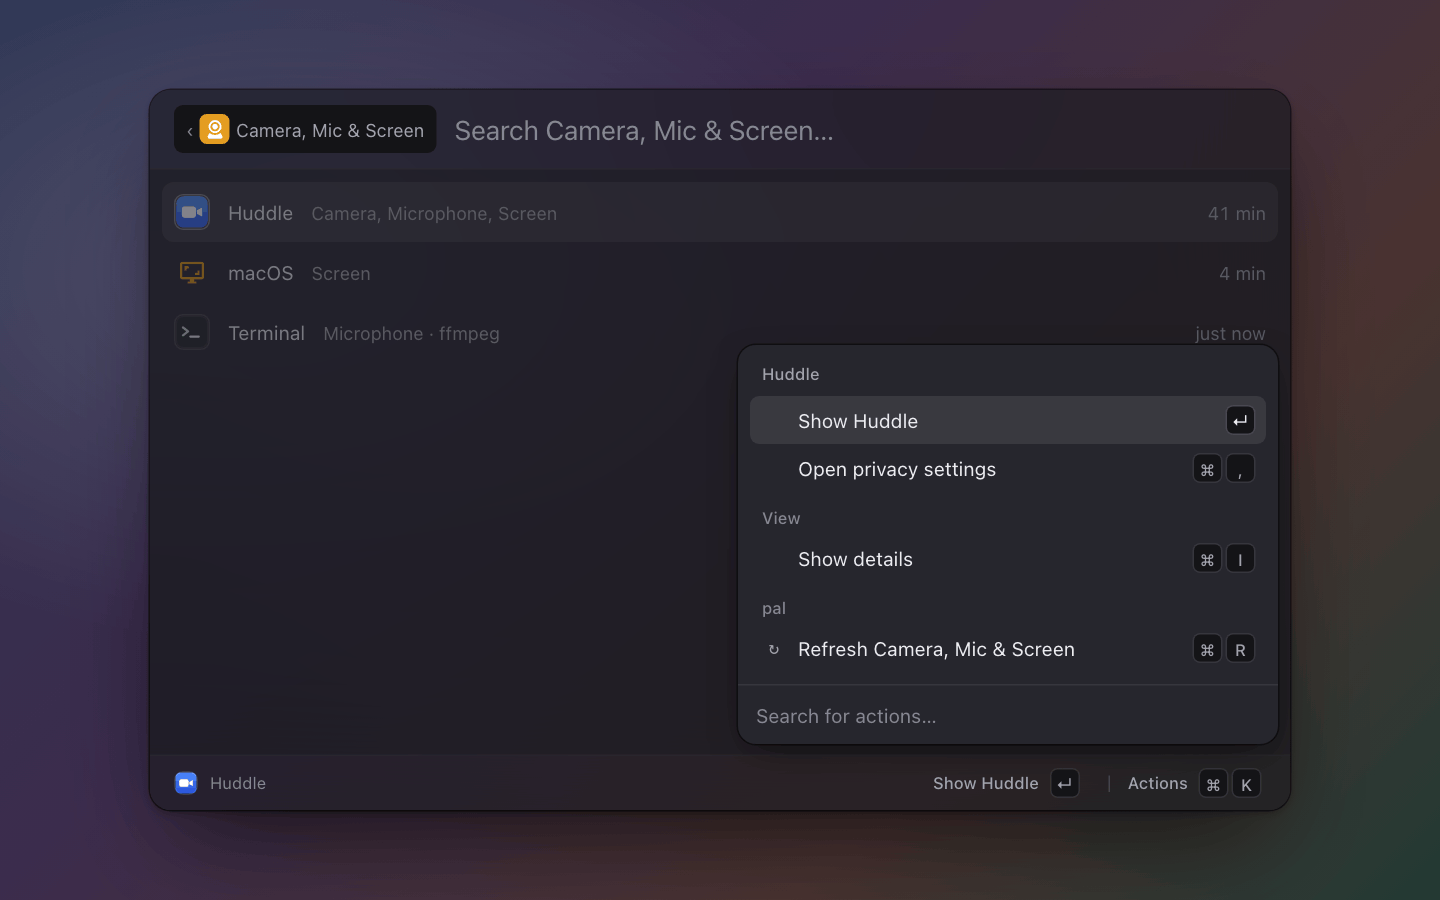
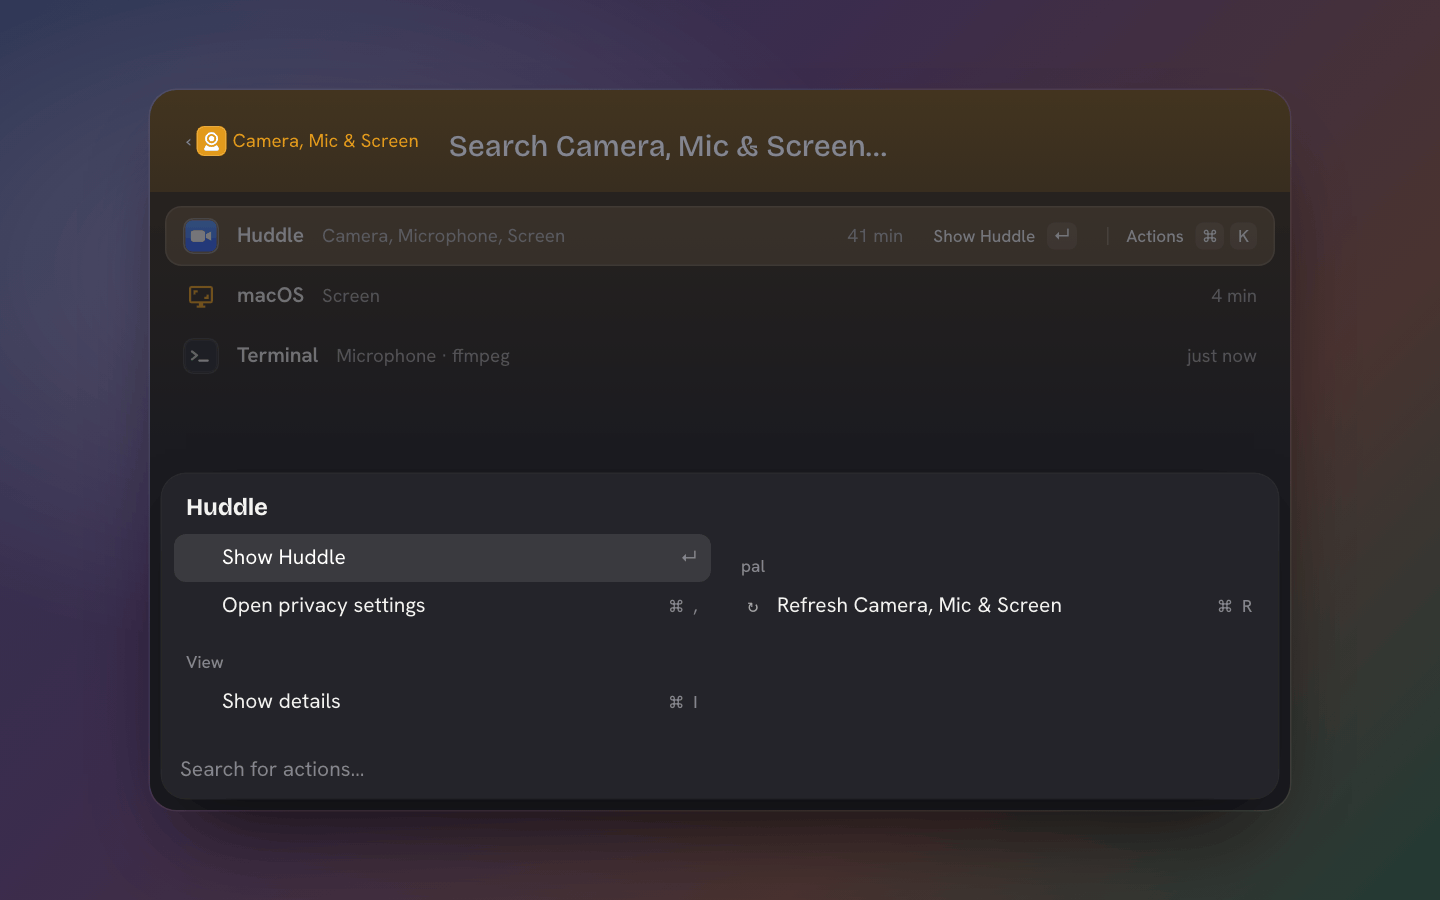
privacy: the popover leads with what is on (Camera and mic in use) as a headline, its title counts the apps; the tooltip's first line says the same, the holders under it

diff --git a/test/privacy.test.ts b/test/privacy.test.ts
@@ -49,10 +49,12 @@ describe("privacy", () => {
   test("bar: a glyph per sensor on amber; the popover is one row per app with what it holds and how long", async () => {
     uses = [camera(), zoom(), ffmpeg()];
     const item = checkBarItem(await host.render("privacy", "in-use"));
-    expect(item).toMatchObject({ icon: "\u{f05a0} \u{f036c}", background: "amber", tooltip: "Camera: zoom.us · Microphone: zoom.us, kitty", states: { camera: true, microphone: true, screen: false } });
+    expect(item).toMatchObject({ icon: "\u{f05a0} \u{f036c}", background: "amber", tooltip: "Camera and mic in use\nCamera: zoom.us · Microphone: zoom.us, kitty", states: { camera: true, microphone: true, screen: false } });
     const v = viewOf(item);
-    expect(v.title).toBe("Camera and mic in use");
-    expect(texts(v).slice(0, 11)).toEqual(["zoom.us", "\u{f05a0}", "Camera", "\u{f036c}", "Microphone", "23 min", "kitty", "ffmpeg", "\u{f036c}", "Microphone", "just now"]);
+    // What is on leads as the headline; the title counts the apps.
+    expect(v.title).toBe("2 apps");
+    expect(nodes(v.tree).find((n) => n.type === "text" && n.key === "headline")).toMatchObject({ value: "Camera and mic in use", style: "headline" });
+    expect(texts(v).slice(0, 12)).toEqual(["Camera and mic in use", "zoom.us", "\u{f05a0}", "Camera", "\u{f036c}", "Microphone", "23 min", "kitty", "ffmpeg", "\u{f036c}", "Microphone", "just now"]);
     const rows = nodes(v.tree).filter((n): n is Extract<ViewNode, { type: "stack" }> => n.type === "stack" && !!n.action?.startsWith("focus:"));
     expect(rows.map((r) => [r.action, !!r.selected])).toEqual([["focus:zoom.us", true], ["focus:kitty", false]]);
     expect(v.actions!.filter((a) => !a.hidden).map((a) => [a.id, a.title])).toEqual([["show", "Show zoom.us"], ["settings", "Open Privacy & Security settings"]]);
@@ -64,15 +66,15 @@ describe("privacy", () => {
   test("bar: a camera no app has claimed is its own row that opens the settings", async () => {
     uses = [bare()];
     const v = viewOf(await host.render("privacy", "in-use"));
-    expect(texts(v).slice(0, 2)).toEqual(["\u{f05a0}", "Studio Display Camera"]);
+    expect(texts(v).slice(0, 3)).toEqual(["Camera in use", "\u{f05a0}", "Studio Display Camera"]);
     expect(v.actions!.find((a) => a.id === "show")).toMatchObject({ title: "Open privacy settings" });
   });
 
   test("bar: a screen share adds its glyph and names its app", async () => {
     uses = [zoom(), { sensor: "screen", app: "Google Chrome", process: null, pid: 900, path: "/Applications/Google Chrome.app", device: null, since: now() - 3600 }];
     const item = await host.render("privacy", "in-use");
-    expect(item).toMatchObject({ icon: "\u{f036c} \u{f0e51}", tooltip: "Microphone: zoom.us · Screen: Google Chrome", states: { camera: false, microphone: true, screen: true } });
-    expect(viewOf(item).title).toBe("Mic and screen in use");
+    expect(item).toMatchObject({ icon: "\u{f036c} \u{f0e51}", tooltip: "Mic and screen in use\nMicrophone: zoom.us · Screen: Google Chrome", states: { camera: false, microphone: true, screen: true } });
+    expect(texts(viewOf(item))[0]).toBe("Mic and screen in use");
   });
 
   test("palette: one row per app with its duration; Enter brings it forward; gone since is a no-op", async () => {

diff --git a/privacy/view.ts b/privacy/view.ts
@@ -43,7 +43,7 @@ export function duration(since: number | null, now: number): string {
   return `${Math.floor(m / 60)} h${m % 60 ? ` ${m % 60} min` : ""}`;
 }
 
-/** The title line: which sensors are on, in words. */
+/** What is on, in words: the popover's headline and the tooltip's first line. */
 export function headline(uses: PrivacyUse[]): string {
   const on = ORDER.filter((s) => uses.some((u) => u.sensor === s)).map((s) => SHORT[s]);
   if (!on.length) return "All clear";
@@ -115,9 +115,10 @@ export function render(st: BarState): View {
   const cur = all[focus];
   const hints = row([...(cur ? keyHint("enter", cur.path ? "show app" : "settings") : []), ...keyHint("s", "privacy settings")], { key: "hints", gap: 1, minHeight: 22 });
   return {
-    tree: column([...(all.length ? [column(all.map((g, i) => groupRow(g, i === focus, st.now)), { key: "rows", gap: 0 })] : [empty()]), { type: "divider", key: "rule" }, hints], { key: "compact", padding: 3, gap: 2 }),
+    // What is on leads, as the headline; the level's title counts the apps under it.
+    tree: column([...(all.length ? [text(headline(st.uses), { key: "headline", style: "headline" }), column(all.map((g, i) => groupRow(g, i === focus, st.now)), { key: "rows", gap: 0 })] : [empty()]), { type: "divider", key: "rule" }, hints], { key: "compact", padding: 3, gap: 2 }),
     actions: actions(cur, all),
-    title: headline(st.uses),
+    title: all.length ? `${all.length} ${all.length === 1 ? "app" : "apps"}` : "All clear",
     id: "in-use",
     keys: "actions",
   };

diff --git a/privacy/index.ts b/privacy/index.ts
@@ -6,7 +6,7 @@
 // second or two), not on a poll of its own. The palette lists the same
 // rows, so `camera` at the root says who has it.
 import { errorMessage, hint, privacy, toast, view as liveView, type BarCtx, type BarItem, type Effect, type Extension, type Item, type PrivacyUse } from "@zcag/pal";
-import { GLYPH, ORDER, SENSOR, SETTINGS, groups, paletteItem, render, type BarState, type Group } from "./view.ts";
+import { GLYPH, ORDER, SENSOR, SETTINGS, groups, headline, paletteItem, render, type BarState, type Group } from "./view.ts";
 
 const EXTENSION = "privacy";
 const ITEM = "in-use";
@@ -47,7 +47,8 @@ async function renderBar(): Promise<BarItem> {
   const menu = { view: render(barState(uses)) };
   const clear = { icon: GLYPH.camera, tooltip: "Nothing is using the camera, the microphone or the screen", menu };
   if (!on.length) return { ...clear, empty: clear, states };
-  const tooltip = on.map((s) => `${SENSOR[s]}: ${groups(uses).filter((g) => g.sensors.includes(s)).map((g) => g.name).join(", ")}`).join(" · ");
+  // What is on first, on its own line (the item is glyphs alone, so a glance card says that line), then who holds each.
+  const tooltip = `${headline(uses)}\n${on.map((s) => `${SENSOR[s]}: ${groups(uses).filter((g) => g.sensors.includes(s)).map((g) => g.name).join(", ")}`).join(" · ")}`;
   return { icon: on.map((s) => GLYPH[s]).join(" "), tooltip, background: "amber", menu, empty: clear, states };
 }
 
